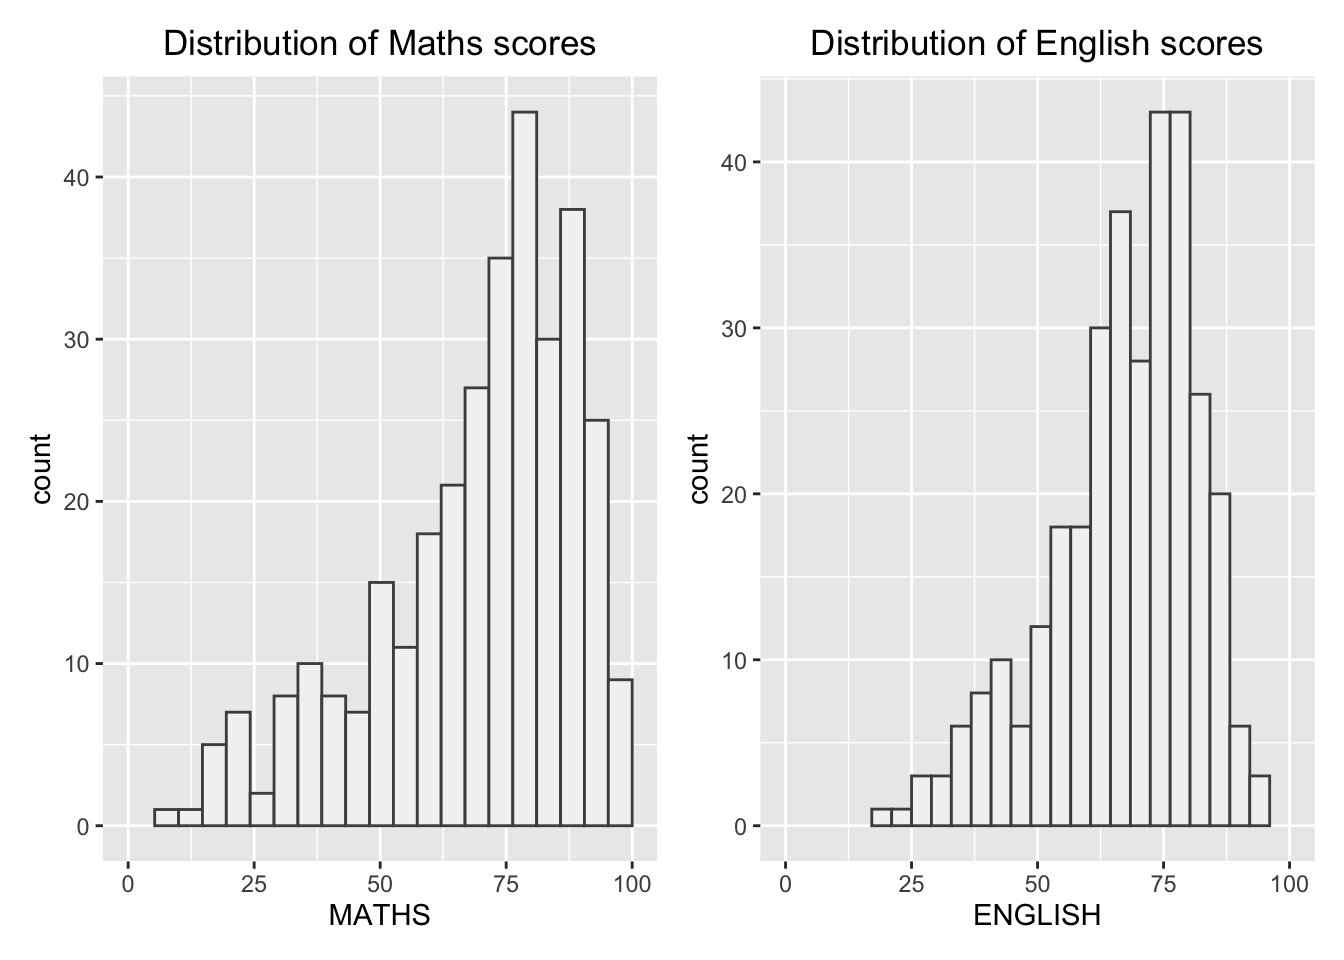
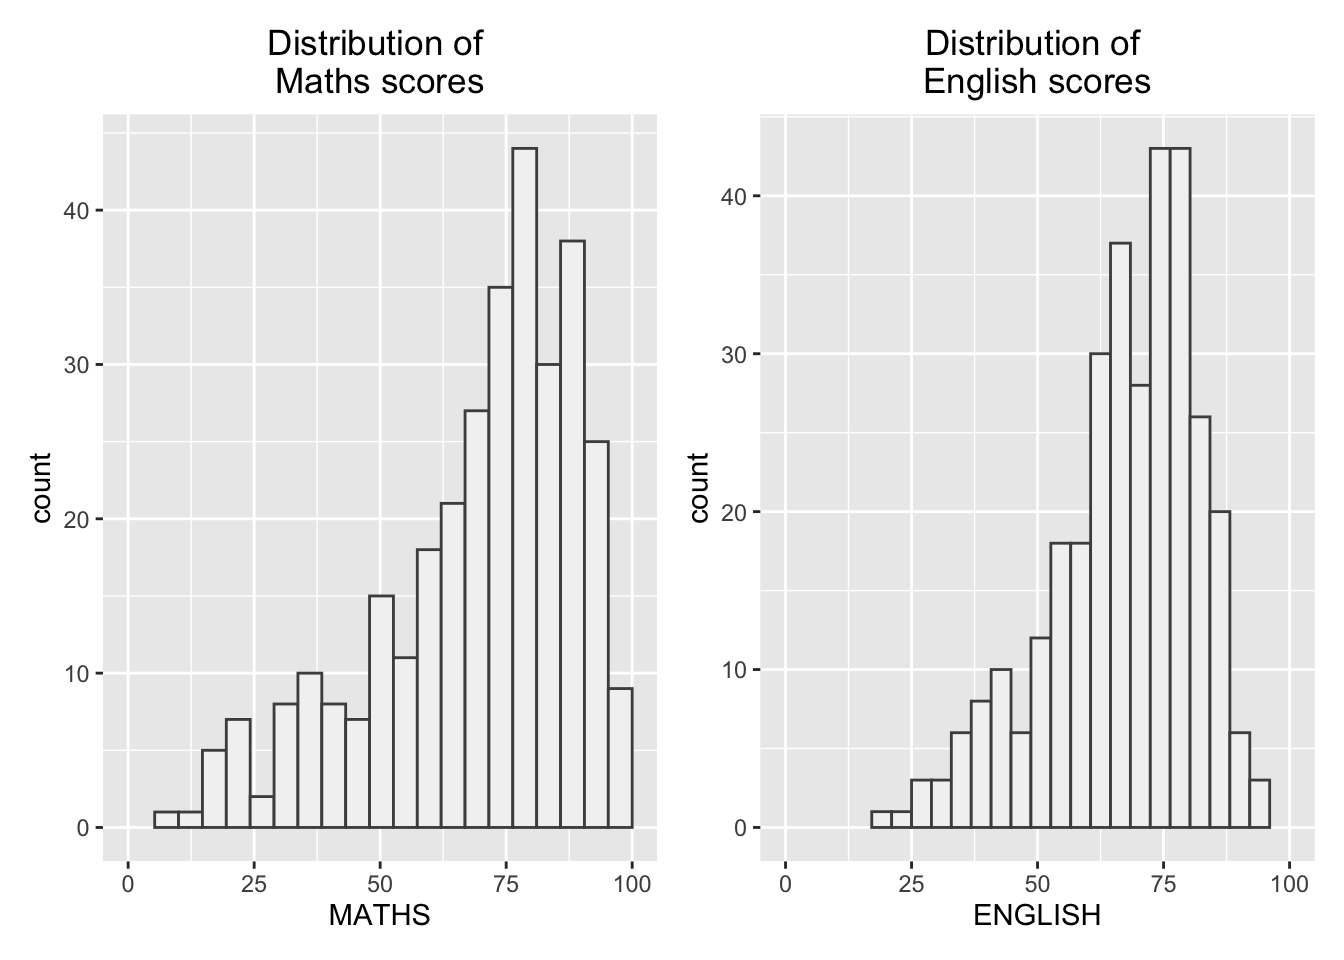
Commit after editing Hands_on Exercise 2

diff --git a/_site/Hands-on_Ex/Hands-on_Ex02/Hands-on_Ex02.html b/_site/Hands-on_Ex/Hands-on_Ex02/Hands-on_Ex02.html
@@ -376,7 +376,7 @@ dbl (3): ENGLISH, MATHS, SCIENCE
 <span id="cb9-3"><a href="#cb9-3" aria-hidden="true" tabindex="-1"></a>       <span class="fu">geom_histogram</span>(<span class="at">bins=</span><span class="dv">20</span>, <span class="at">boundary =</span> <span class="dv">100</span>,  </span>
 <span id="cb9-4"><a href="#cb9-4" aria-hidden="true" tabindex="-1"></a>       <span class="at">color=</span> <span class="st">"grey30"</span>, <span class="at">fill =</span> <span class="st">"grey95"</span>) <span class="sc">+</span></span>
 <span id="cb9-5"><a href="#cb9-5" aria-hidden="true" tabindex="-1"></a>       <span class="fu">coord_cartesian</span>(<span class="at">xlim=</span><span class="fu">c</span>(<span class="dv">0</span>,<span class="dv">100</span>)) <span class="sc">+</span></span>
-<span id="cb9-6"><a href="#cb9-6" aria-hidden="true" tabindex="-1"></a>       <span class="fu">ggtitle</span>(<span class="st">"Distribution of Maths scores"</span>) <span class="sc">+</span></span>
+<span id="cb9-6"><a href="#cb9-6" aria-hidden="true" tabindex="-1"></a>       <span class="fu">ggtitle</span>(<span class="st">"Distribution of </span><span class="sc">\n</span><span class="st">Maths scores"</span>) <span class="sc">+</span></span>
 <span id="cb9-7"><a href="#cb9-7" aria-hidden="true" tabindex="-1"></a>       <span class="fu">theme</span>(<span class="at">plot.title =</span> <span class="fu">element_text</span>(<span class="at">hjust =</span> <span class="fl">0.5</span>))</span></code><button title="Copy to Clipboard" class="code-copy-button"><i class="bi"></i></button></pre></div>
 </div>
 </section>
@@ -391,7 +391,7 @@ dbl (3): ENGLISH, MATHS, SCIENCE
 <span id="cb10-3"><a href="#cb10-3" aria-hidden="true" tabindex="-1"></a>       <span class="fu">geom_histogram</span>(<span class="at">bins=</span><span class="dv">20</span>, <span class="at">boundary =</span> <span class="dv">100</span>,  </span>
 <span id="cb10-4"><a href="#cb10-4" aria-hidden="true" tabindex="-1"></a>       <span class="at">color=</span> <span class="st">"grey30"</span>, <span class="at">fill =</span> <span class="st">"grey95"</span>) <span class="sc">+</span></span>
 <span id="cb10-5"><a href="#cb10-5" aria-hidden="true" tabindex="-1"></a>       <span class="fu">coord_cartesian</span>(<span class="at">xlim=</span><span class="fu">c</span>(<span class="dv">0</span>,<span class="dv">100</span>)) <span class="sc">+</span></span>
-<span id="cb10-6"><a href="#cb10-6" aria-hidden="true" tabindex="-1"></a>       <span class="fu">ggtitle</span>(<span class="st">"Distribution of English scores"</span>) <span class="sc">+</span></span>
+<span id="cb10-6"><a href="#cb10-6" aria-hidden="true" tabindex="-1"></a>       <span class="fu">ggtitle</span>(<span class="st">"Distribution of </span><span class="sc">\n</span><span class="st">English scores"</span>) <span class="sc">+</span></span>
 <span id="cb10-7"><a href="#cb10-7" aria-hidden="true" tabindex="-1"></a>       <span class="fu">theme</span>(<span class="at">plot.title =</span> <span class="fu">element_text</span>(<span class="at">hjust =</span> <span class="fl">0.5</span>))</span></code><button title="Copy to Clipboard" class="code-copy-button"><i class="bi"></i></button></pre></div>
 </div>
 </section>
@@ -406,7 +406,7 @@ dbl (3): ENGLISH, MATHS, SCIENCE
 <span id="cb11-3"><a href="#cb11-3" aria-hidden="true" tabindex="-1"></a>       <span class="fu">geom_point</span>() <span class="sc">+</span></span>
 <span id="cb11-4"><a href="#cb11-4" aria-hidden="true" tabindex="-1"></a>       <span class="fu">geom_smooth</span>(<span class="at">method=</span>lm, <span class="at">size=</span><span class="fl">0.5</span>) <span class="sc">+</span>  </span>
 <span id="cb11-5"><a href="#cb11-5" aria-hidden="true" tabindex="-1"></a>       <span class="fu">coord_cartesian</span>(<span class="at">xlim=</span><span class="fu">c</span>(<span class="dv">0</span>,<span class="dv">100</span>), <span class="at">ylim=</span><span class="fu">c</span>(<span class="dv">0</span>,<span class="dv">100</span>)) <span class="sc">+</span></span>
-<span id="cb11-6"><a href="#cb11-6" aria-hidden="true" tabindex="-1"></a>       <span class="fu">ggtitle</span>(<span class="st">"English scores versus </span><span class="sc">\n</span><span class="st">Maths scores for Primary 3"</span>) <span class="sc">+</span></span>
+<span id="cb11-6"><a href="#cb11-6" aria-hidden="true" tabindex="-1"></a>       <span class="fu">ggtitle</span>(<span class="st">"English scores vs Maths </span><span class="sc">\n</span><span class="st">scores for Primary 3"</span>) <span class="sc">+</span></span>
 <span id="cb11-7"><a href="#cb11-7" aria-hidden="true" tabindex="-1"></a>       <span class="fu">theme</span>(<span class="at">plot.title =</span> <span class="fu">element_text</span>(<span class="at">hjust =</span> <span class="fl">0.5</span>))</span></code><button title="Copy to Clipboard" class="code-copy-button"><i class="bi"></i></button></pre></div>
 </div>
 </section>
@@ -457,6 +457,49 @@ dbl (3): ENGLISH, MATHS, SCIENCE
 </div>
 <div class="cell-output-display">
 <p><img src="Hands-on_Ex02_files/figure-html/unnamed-chunk-12-1.png" class="img-fluid" width="672"></p>
+</div>
+</div>
+</section>
+<section id="insert-3.2-into-3.3" class="level4">
+<h4 class="anchored" data-anchor-id="insert-3.2-into-3.3">4.3) Insert 3.2 into 3.3</h4>
+<p>In this output, we will insert Distribution of English Scores on top of English scores vs Maths scores for Primary 3.</p>
+</section>
+<section id="output-10" class="level4">
+<h4 class="anchored" data-anchor-id="output-10">Output :</h4>
+<div class="cell">
+<div class="sourceCode cell-code" id="cb15"><pre class="sourceCode r code-with-copy"><code class="sourceCode r"><span id="cb15-1"><a href="#cb15-1" aria-hidden="true" tabindex="-1"></a>p3 <span class="sc">+</span> <span class="fu">inset_element</span>(p2, <span class="at">left =</span> <span class="fl">0.02</span>, <span class="at">bottom =</span> <span class="fl">0.6</span>, <span class="at">right =</span> <span class="fl">0.4</span>, <span class="at">top =</span> <span class="dv">1</span>)</span></code><button title="Copy to Clipboard" class="code-copy-button"><i class="bi"></i></button></pre></div>
+<div class="cell-output cell-output-stderr">
+<pre><code>`geom_smooth()` using formula 'y ~ x'</code></pre>
+</div>
+<div class="cell-output-display">
+<p><img src="Hands-on_Ex02_files/figure-html/unnamed-chunk-13-1.png" class="img-fluid" width="672"></p>
+</div>
+</div>
+</section>
+<section id="add-patchwork-and-ggtheme-to-4.2" class="level4">
+<h4 class="anchored" data-anchor-id="add-patchwork-and-ggtheme-to-4.2">4.4) Add patchwork and ggtheme to 4.2</h4>
+<p>In this output, we will add patchwork and ggtheme.</p>
+</section>
+<section id="output-11" class="level4">
+<h4 class="anchored" data-anchor-id="output-11">Output :</h4>
+<div class="cell">
+<div class="sourceCode cell-code" id="cb17"><pre class="sourceCode r code-with-copy"><code class="sourceCode r"><span id="cb17-1"><a href="#cb17-1" aria-hidden="true" tabindex="-1"></a>patchwork <span class="ot">&lt;-</span> p1 <span class="sc">/</span> p2 <span class="sc">|</span> p3</span>
+<span id="cb17-2"><a href="#cb17-2" aria-hidden="true" tabindex="-1"></a>patchwork <span class="sc">&amp;</span> <span class="fu">theme_economist</span>(<span class="at">base_size =</span> <span class="dv">15</span>) </span></code><button title="Copy to Clipboard" class="code-copy-button"><i class="bi"></i></button></pre></div>
+<div class="cell-output cell-output-stderr">
+<pre><code>`geom_smooth()` using formula 'y ~ x'</code></pre>
+</div>
+<div class="cell-output-display">
+<p><img src="Hands-on_Ex02_files/figure-html/unnamed-chunk-14-1.png" class="img-fluid" width="672"></p>
+</div>
+</div>
+<div class="cell">
+<div class="sourceCode cell-code" id="cb19"><pre class="sourceCode r code-with-copy"><code class="sourceCode r"><span id="cb19-1"><a href="#cb19-1" aria-hidden="true" tabindex="-1"></a>pp <span class="ot">&lt;-</span> p1 <span class="sc">/</span> p2 <span class="sc">|</span> p3 </span>
+<span id="cb19-2"><a href="#cb19-2" aria-hidden="true" tabindex="-1"></a>pp <span class="sc">&amp;</span> <span class="fu">theme_economist</span>()</span></code><button title="Copy to Clipboard" class="code-copy-button"><i class="bi"></i></button></pre></div>
+<div class="cell-output cell-output-stderr">
+<pre><code>`geom_smooth()` using formula 'y ~ x'</code></pre>
+</div>
+<div class="cell-output-display">
+<p><img src="Hands-on_Ex02_files/figure-html/unnamed-chunk-15-1.png" class="img-fluid" width="672"></p>
 </div>
 </div>
 
